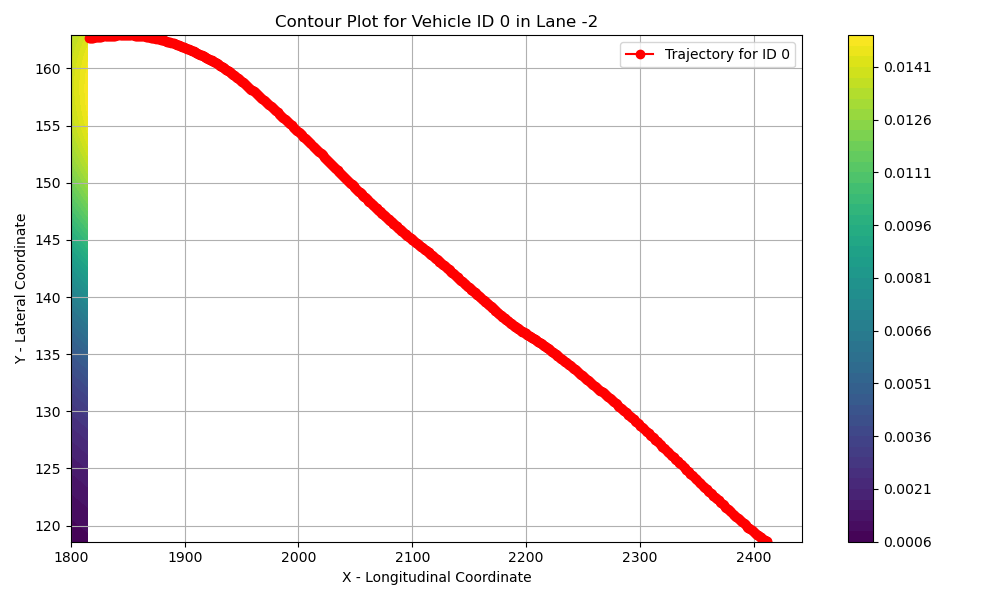
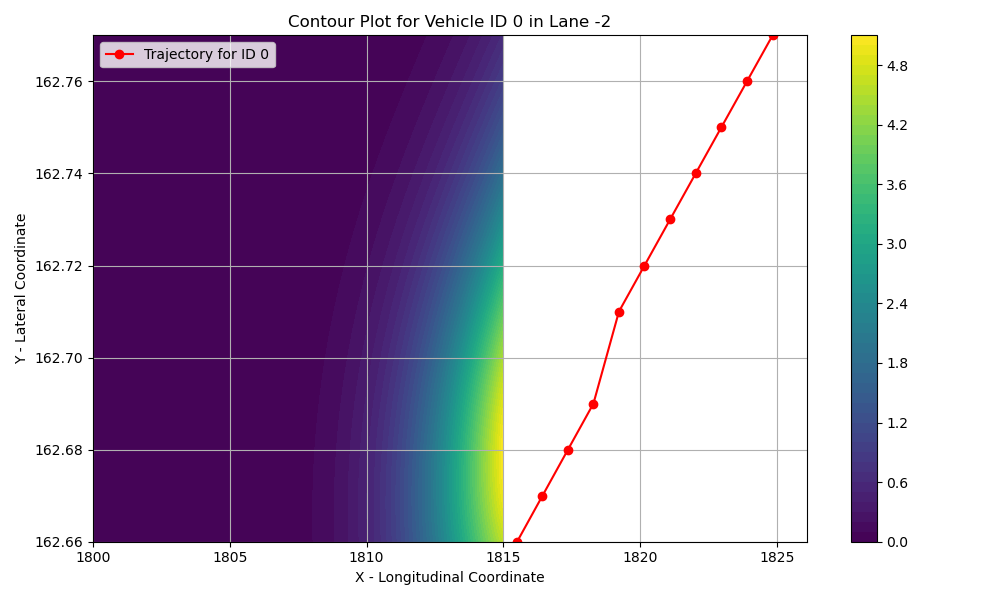
continue later

diff --git a/conv-social-pooling/codes/plot_outgoing_contour.py b/conv-social-pooling/codes/plot_outgoing_contour.py
@@ -14,6 +14,13 @@ def plot_trajectory_contour(input_data, overpass_start_loc_x, overpass_end_loc_x
             print(f"No data for vehicle ID {ident} in lane {lane}")
             continue
 
+        # Filter data within the overpass x-coordinate range
+        vehicle_data = vehicle_data[(vehicle_data['xloc'] >= overpass_end_loc_x) & (vehicle_data['xloc'] <= overpass_end_loc_x+10)]
+
+        if len(vehicle_data) == 0:
+            print(f"No data within the overpass range for vehicle ID {ident}")
+            continue
+
         x = np.linspace(overpass_start_loc_x, overpass_end_loc_x, 100)
         y = np.linspace(vehicle_data['yloc'].min(), vehicle_data['yloc'].max(), 100)
         X, Y = np.meshgrid(x, y)
@@ -42,6 +49,7 @@ def plot_trajectory_contour(input_data, overpass_start_loc_x, overpass_end_loc_x
         plt.tight_layout()
         plt.savefig(f'contour_maps/vehicle_{ident}_contour.png')
         plt.close()
+        break
 
 def main():
     # Load your data here
